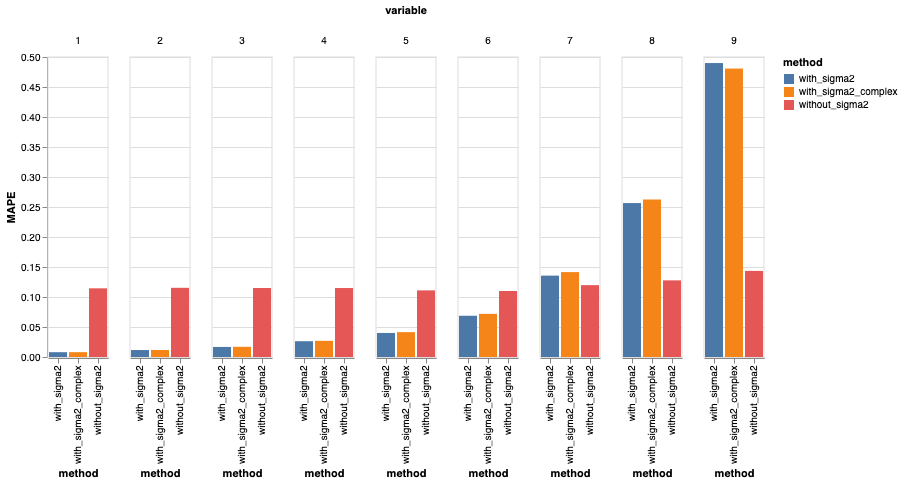
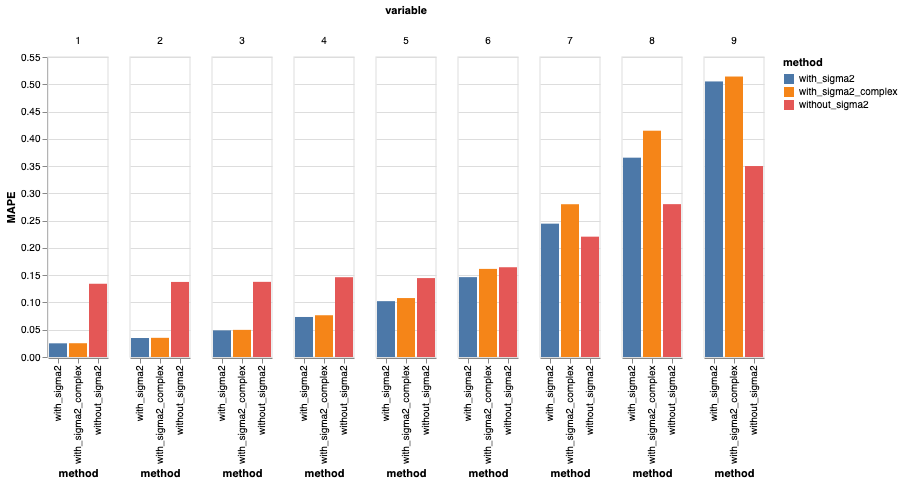
Correct bug

diff --git a/MAPE_variable.html b/MAPE_variable.html
@@ -20,7 +20,7 @@
   <div id="vis"></div>
   <script>
     (function(vegaEmbed) {
-      var spec = {"config": {"view": {"continuousWidth": 300, "continuousHeight": 300}}, "data": {"name": "data-a40fffe9a8c9c95f3a639ee4f044bb15"}, "mark": {"type": "bar"}, "encoding": {"color": {"field": "method", "type": "nominal"}, "column": {"field": "variable", "type": "ordinal"}, "x": {"field": "method", "type": "ordinal"}, "y": {"field": "MAPE", "type": "quantitative"}}, "$schema": "https://vega.github.io/schema/vega-lite/v5.16.3.json", "datasets": {"data-a40fffe9a8c9c95f3a639ee4f044bb15": [{"variable": 1, "true_mean": 0.1, "variance": 1e-05, "method": "without_sigma2", "MAPE": 0.11446352472982138}, {"variable": 2, "true_mean": 0.1, "variance": 2e-05, "method": "without_sigma2", "MAPE": 0.11533972372255727}, {"variable": 3, "true_mean": 0.1, "variance": 4e-05, "method": "without_sigma2", "MAPE": 0.11500677116255789}, {"variable": 4, "true_mean": 0.1, "variance": 8e-05, "method": "without_sigma2", "MAPE": 0.11496271946362928}, {"variable": 5, "true_mean": 0.1, "variance": 0.00016, "method": "without_sigma2", "MAPE": 0.11103836716333787}, {"variable": 6, "true_mean": 0.1, "variance": 0.00032, "method": "without_sigma2", "MAPE": 0.11001046468893026}, {"variable": 7, "true_mean": 0.1, "variance": 0.00064, "method": "without_sigma2", "MAPE": 0.11975678657857121}, {"variable": 8, "true_mean": 0.1, "variance": 0.00128, "method": "without_sigma2", "MAPE": 0.12774046912992193}, {"variable": 9, "true_mean": 0.1, "variance": 0.00256, "method": "without_sigma2", "MAPE": 0.1434876541246998}, {"variable": 1, "true_mean": 0.1, "variance": 1e-05, "method": "with_sigma2", "MAPE": 0.008047063788750797}, {"variable": 2, "true_mean": 0.1, "variance": 2e-05, "method": "with_sigma2", "MAPE": 0.011598819403233674}, {"variable": 3, "true_mean": 0.1, "variance": 4e-05, "method": "with_sigma2", "MAPE": 0.01677336430691984}, {"variable": 4, "true_mean": 0.1, "variance": 8e-05, "method": "with_sigma2", "MAPE": 0.02631111923723618}, {"variable": 5, "true_mean": 0.1, "variance": 0.00016, "method": "with_sigma2", "MAPE": 0.040059650479868564}, {"variable": 6, "true_mean": 0.1, "variance": 0.00032, "method": "with_sigma2", "MAPE": 0.0687396947751783}, {"variable": 7, "true_mean": 0.1, "variance": 0.00064, "method": "with_sigma2", "MAPE": 0.1356197306044849}, {"variable": 8, "true_mean": 0.1, "variance": 0.00128, "method": "with_sigma2", "MAPE": 0.2565828712417958}, {"variable": 9, "true_mean": 0.1, "variance": 0.00256, "method": "with_sigma2", "MAPE": 0.4899164147576058}, {"variable": 1, "true_mean": 0.1, "variance": 1e-05, "method": "with_sigma2_complex", "MAPE": 0.008082733041563692}, {"variable": 2, "true_mean": 0.1, "variance": 2e-05, "method": "with_sigma2_complex", "MAPE": 0.011695414973782984}, {"variable": 3, "true_mean": 0.1, "variance": 4e-05, "method": "with_sigma2_complex", "MAPE": 0.016978916852031057}, {"variable": 4, "true_mean": 0.1, "variance": 8e-05, "method": "with_sigma2_complex", "MAPE": 0.026940210207668052}, {"variable": 5, "true_mean": 0.1, "variance": 0.00016, "method": "with_sigma2_complex", "MAPE": 0.04143967828718862}, {"variable": 6, "true_mean": 0.1, "variance": 0.00032, "method": "with_sigma2_complex", "MAPE": 0.07192734357507208}, {"variable": 7, "true_mean": 0.1, "variance": 0.00064, "method": "with_sigma2_complex", "MAPE": 0.1415127730927227}, {"variable": 8, "true_mean": 0.1, "variance": 0.00128, "method": "with_sigma2_complex", "MAPE": 0.26251445800879025}, {"variable": 9, "true_mean": 0.1, "variance": 0.00256, "method": "with_sigma2_complex", "MAPE": 0.48073234128264447}]}};
+      var spec = {"config": {"view": {"continuousWidth": 300, "continuousHeight": 300}}, "data": {"name": "data-b7512102ba49f50f3e18c751f8a5bdcb"}, "mark": {"type": "bar"}, "encoding": {"color": {"field": "method", "type": "nominal"}, "column": {"field": "variable", "type": "ordinal"}, "x": {"field": "method", "type": "ordinal"}, "y": {"field": "MAPE", "type": "quantitative"}}, "$schema": "https://vega.github.io/schema/vega-lite/v5.16.3.json", "datasets": {"data-b7512102ba49f50f3e18c751f8a5bdcb": [{"variable": 1, "true_mean": 0.1, "variance": 1e-05, "method": "without_sigma2", "MAPE": 0.1342828925756599}, {"variable": 2, "true_mean": 0.1, "variance": 2e-05, "method": "without_sigma2", "MAPE": 0.13762258653240708}, {"variable": 3, "true_mean": 0.1, "variance": 4e-05, "method": "without_sigma2", "MAPE": 0.13777924210682263}, {"variable": 4, "true_mean": 0.1, "variance": 8e-05, "method": "without_sigma2", "MAPE": 0.14629171335576177}, {"variable": 5, "true_mean": 0.1, "variance": 0.00016, "method": "without_sigma2", "MAPE": 0.14468149670080704}, {"variable": 6, "true_mean": 0.1, "variance": 0.00032, "method": "without_sigma2", "MAPE": 0.16456589157807125}, {"variable": 7, "true_mean": 0.1, "variance": 0.00064, "method": "without_sigma2", "MAPE": 0.22062204354454193}, {"variable": 8, "true_mean": 0.1, "variance": 0.00128, "method": "without_sigma2", "MAPE": 0.2802446040495754}, {"variable": 9, "true_mean": 0.1, "variance": 0.00256, "method": "without_sigma2", "MAPE": 0.3500884823611344}, {"variable": 1, "true_mean": 0.1, "variance": 1e-05, "method": "with_sigma2", "MAPE": 0.02507777855064316}, {"variable": 2, "true_mean": 0.1, "variance": 2e-05, "method": "with_sigma2", "MAPE": 0.0348268332323066}, {"variable": 3, "true_mean": 0.1, "variance": 4e-05, "method": "with_sigma2", "MAPE": 0.04883761750830385}, {"variable": 4, "true_mean": 0.1, "variance": 8e-05, "method": "with_sigma2", "MAPE": 0.0733813116928071}, {"variable": 5, "true_mean": 0.1, "variance": 0.00016, "method": "with_sigma2", "MAPE": 0.10238669296745075}, {"variable": 6, "true_mean": 0.1, "variance": 0.00032, "method": "with_sigma2", "MAPE": 0.1464174191380851}, {"variable": 7, "true_mean": 0.1, "variance": 0.00064, "method": "with_sigma2", "MAPE": 0.2444809792382749}, {"variable": 8, "true_mean": 0.1, "variance": 0.00128, "method": "with_sigma2", "MAPE": 0.36544081448302035}, {"variable": 9, "true_mean": 0.1, "variance": 0.00256, "method": "with_sigma2", "MAPE": 0.5052003430273044}, {"variable": 1, "true_mean": 0.1, "variance": 1e-05, "method": "with_sigma2_complex", "MAPE": 0.025259870320127796}, {"variable": 2, "true_mean": 0.1, "variance": 2e-05, "method": "with_sigma2_complex", "MAPE": 0.035153217294801795}, {"variable": 3, "true_mean": 0.1, "variance": 4e-05, "method": "with_sigma2_complex", "MAPE": 0.049760344237624037}, {"variable": 4, "true_mean": 0.1, "variance": 8e-05, "method": "with_sigma2_complex", "MAPE": 0.07655340232738007}, {"variable": 5, "true_mean": 0.1, "variance": 0.00016, "method": "with_sigma2_complex", "MAPE": 0.1080670002367516}, {"variable": 6, "true_mean": 0.1, "variance": 0.00032, "method": "with_sigma2_complex", "MAPE": 0.16153650529388733}, {"variable": 7, "true_mean": 0.1, "variance": 0.00064, "method": "with_sigma2_complex", "MAPE": 0.2800952296131887}, {"variable": 8, "true_mean": 0.1, "variance": 0.00128, "method": "with_sigma2_complex", "MAPE": 0.41487067763836466}, {"variable": 9, "true_mean": 0.1, "variance": 0.00256, "method": "with_sigma2_complex", "MAPE": 0.5142069752837981}]}};
       var embedOpt = {"mode": "vega-lite"};
 
       function showError(el, error){

diff --git a/MAPE_variance.html b/MAPE_variance.html
@@ -20,7 +20,7 @@
   <div id="vis"></div>
   <script>
     (function(vegaEmbed) {
-      var spec = {"config": {"view": {"continuousWidth": 300, "continuousHeight": 300}}, "data": {"name": "data-a40fffe9a8c9c95f3a639ee4f044bb15"}, "mark": {"type": "line"}, "encoding": {"color": {"field": "method", "type": "nominal"}, "x": {"field": "variance", "type": "quantitative"}, "y": {"field": "MAPE", "type": "quantitative"}}, "$schema": "https://vega.github.io/schema/vega-lite/v5.16.3.json", "datasets": {"data-a40fffe9a8c9c95f3a639ee4f044bb15": [{"variable": 1, "true_mean": 0.1, "variance": 1e-05, "method": "without_sigma2", "MAPE": 0.11446352472982138}, {"variable": 2, "true_mean": 0.1, "variance": 2e-05, "method": "without_sigma2", "MAPE": 0.11533972372255727}, {"variable": 3, "true_mean": 0.1, "variance": 4e-05, "method": "without_sigma2", "MAPE": 0.11500677116255789}, {"variable": 4, "true_mean": 0.1, "variance": 8e-05, "method": "without_sigma2", "MAPE": 0.11496271946362928}, {"variable": 5, "true_mean": 0.1, "variance": 0.00016, "method": "without_sigma2", "MAPE": 0.11103836716333787}, {"variable": 6, "true_mean": 0.1, "variance": 0.00032, "method": "without_sigma2", "MAPE": 0.11001046468893026}, {"variable": 7, "true_mean": 0.1, "variance": 0.00064, "method": "without_sigma2", "MAPE": 0.11975678657857121}, {"variable": 8, "true_mean": 0.1, "variance": 0.00128, "method": "without_sigma2", "MAPE": 0.12774046912992193}, {"variable": 9, "true_mean": 0.1, "variance": 0.00256, "method": "without_sigma2", "MAPE": 0.1434876541246998}, {"variable": 1, "true_mean": 0.1, "variance": 1e-05, "method": "with_sigma2", "MAPE": 0.008047063788750797}, {"variable": 2, "true_mean": 0.1, "variance": 2e-05, "method": "with_sigma2", "MAPE": 0.011598819403233674}, {"variable": 3, "true_mean": 0.1, "variance": 4e-05, "method": "with_sigma2", "MAPE": 0.01677336430691984}, {"variable": 4, "true_mean": 0.1, "variance": 8e-05, "method": "with_sigma2", "MAPE": 0.02631111923723618}, {"variable": 5, "true_mean": 0.1, "variance": 0.00016, "method": "with_sigma2", "MAPE": 0.040059650479868564}, {"variable": 6, "true_mean": 0.1, "variance": 0.00032, "method": "with_sigma2", "MAPE": 0.0687396947751783}, {"variable": 7, "true_mean": 0.1, "variance": 0.00064, "method": "with_sigma2", "MAPE": 0.1356197306044849}, {"variable": 8, "true_mean": 0.1, "variance": 0.00128, "method": "with_sigma2", "MAPE": 0.2565828712417958}, {"variable": 9, "true_mean": 0.1, "variance": 0.00256, "method": "with_sigma2", "MAPE": 0.4899164147576058}, {"variable": 1, "true_mean": 0.1, "variance": 1e-05, "method": "with_sigma2_complex", "MAPE": 0.008082733041563692}, {"variable": 2, "true_mean": 0.1, "variance": 2e-05, "method": "with_sigma2_complex", "MAPE": 0.011695414973782984}, {"variable": 3, "true_mean": 0.1, "variance": 4e-05, "method": "with_sigma2_complex", "MAPE": 0.016978916852031057}, {"variable": 4, "true_mean": 0.1, "variance": 8e-05, "method": "with_sigma2_complex", "MAPE": 0.026940210207668052}, {"variable": 5, "true_mean": 0.1, "variance": 0.00016, "method": "with_sigma2_complex", "MAPE": 0.04143967828718862}, {"variable": 6, "true_mean": 0.1, "variance": 0.00032, "method": "with_sigma2_complex", "MAPE": 0.07192734357507208}, {"variable": 7, "true_mean": 0.1, "variance": 0.00064, "method": "with_sigma2_complex", "MAPE": 0.1415127730927227}, {"variable": 8, "true_mean": 0.1, "variance": 0.00128, "method": "with_sigma2_complex", "MAPE": 0.26251445800879025}, {"variable": 9, "true_mean": 0.1, "variance": 0.00256, "method": "with_sigma2_complex", "MAPE": 0.48073234128264447}]}};
+      var spec = {"config": {"view": {"continuousWidth": 300, "continuousHeight": 300}}, "data": {"name": "data-b7512102ba49f50f3e18c751f8a5bdcb"}, "mark": {"type": "line"}, "encoding": {"color": {"field": "method", "type": "nominal"}, "x": {"field": "variance", "type": "quantitative"}, "y": {"field": "MAPE", "type": "quantitative"}}, "$schema": "https://vega.github.io/schema/vega-lite/v5.16.3.json", "datasets": {"data-b7512102ba49f50f3e18c751f8a5bdcb": [{"variable": 1, "true_mean": 0.1, "variance": 1e-05, "method": "without_sigma2", "MAPE": 0.1342828925756599}, {"variable": 2, "true_mean": 0.1, "variance": 2e-05, "method": "without_sigma2", "MAPE": 0.13762258653240708}, {"variable": 3, "true_mean": 0.1, "variance": 4e-05, "method": "without_sigma2", "MAPE": 0.13777924210682263}, {"variable": 4, "true_mean": 0.1, "variance": 8e-05, "method": "without_sigma2", "MAPE": 0.14629171335576177}, {"variable": 5, "true_mean": 0.1, "variance": 0.00016, "method": "without_sigma2", "MAPE": 0.14468149670080704}, {"variable": 6, "true_mean": 0.1, "variance": 0.00032, "method": "without_sigma2", "MAPE": 0.16456589157807125}, {"variable": 7, "true_mean": 0.1, "variance": 0.00064, "method": "without_sigma2", "MAPE": 0.22062204354454193}, {"variable": 8, "true_mean": 0.1, "variance": 0.00128, "method": "without_sigma2", "MAPE": 0.2802446040495754}, {"variable": 9, "true_mean": 0.1, "variance": 0.00256, "method": "without_sigma2", "MAPE": 0.3500884823611344}, {"variable": 1, "true_mean": 0.1, "variance": 1e-05, "method": "with_sigma2", "MAPE": 0.02507777855064316}, {"variable": 2, "true_mean": 0.1, "variance": 2e-05, "method": "with_sigma2", "MAPE": 0.0348268332323066}, {"variable": 3, "true_mean": 0.1, "variance": 4e-05, "method": "with_sigma2", "MAPE": 0.04883761750830385}, {"variable": 4, "true_mean": 0.1, "variance": 8e-05, "method": "with_sigma2", "MAPE": 0.0733813116928071}, {"variable": 5, "true_mean": 0.1, "variance": 0.00016, "method": "with_sigma2", "MAPE": 0.10238669296745075}, {"variable": 6, "true_mean": 0.1, "variance": 0.00032, "method": "with_sigma2", "MAPE": 0.1464174191380851}, {"variable": 7, "true_mean": 0.1, "variance": 0.00064, "method": "with_sigma2", "MAPE": 0.2444809792382749}, {"variable": 8, "true_mean": 0.1, "variance": 0.00128, "method": "with_sigma2", "MAPE": 0.36544081448302035}, {"variable": 9, "true_mean": 0.1, "variance": 0.00256, "method": "with_sigma2", "MAPE": 0.5052003430273044}, {"variable": 1, "true_mean": 0.1, "variance": 1e-05, "method": "with_sigma2_complex", "MAPE": 0.025259870320127796}, {"variable": 2, "true_mean": 0.1, "variance": 2e-05, "method": "with_sigma2_complex", "MAPE": 0.035153217294801795}, {"variable": 3, "true_mean": 0.1, "variance": 4e-05, "method": "with_sigma2_complex", "MAPE": 0.049760344237624037}, {"variable": 4, "true_mean": 0.1, "variance": 8e-05, "method": "with_sigma2_complex", "MAPE": 0.07655340232738007}, {"variable": 5, "true_mean": 0.1, "variance": 0.00016, "method": "with_sigma2_complex", "MAPE": 0.1080670002367516}, {"variable": 6, "true_mean": 0.1, "variance": 0.00032, "method": "with_sigma2_complex", "MAPE": 0.16153650529388733}, {"variable": 7, "true_mean": 0.1, "variance": 0.00064, "method": "with_sigma2_complex", "MAPE": 0.2800952296131887}, {"variable": 8, "true_mean": 0.1, "variance": 0.00128, "method": "with_sigma2_complex", "MAPE": 0.41487067763836466}, {"variable": 9, "true_mean": 0.1, "variance": 0.00256, "method": "with_sigma2_complex", "MAPE": 0.5142069752837981}]}};
       var embedOpt = {"mode": "vega-lite"};
 
       function showError(el, error){

diff --git a/create_experiment.py b/create_experiment.py
@@ -28,7 +28,7 @@ def generate_data(mu_i, sigma2_i, L):
     x_i = np.zeros(n)
     for index, (mu, sigma2) in enumerate(zip(mu_i, sigma2_i)):
         if L == 'lognormal':
-            v = log(1 + sigma2 / mu)
+            v = log(1 + sigma2 / mu**2)
             m = log(mu) - v / 2
             z = np.random.normal(0, 1, 1)[0]
             x_i[index] = exp(m + sqrt(v) * z)
